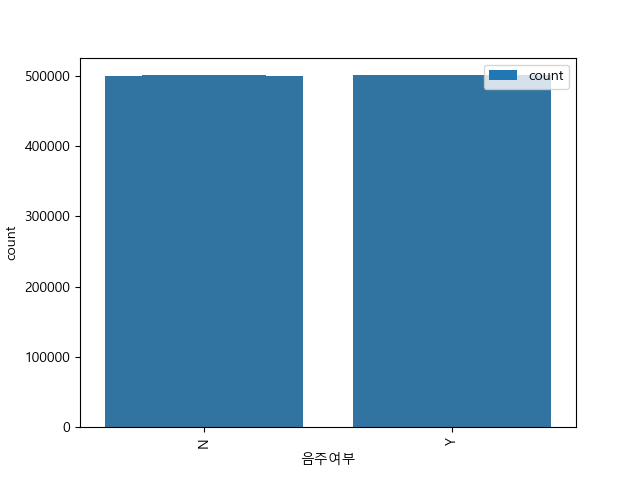
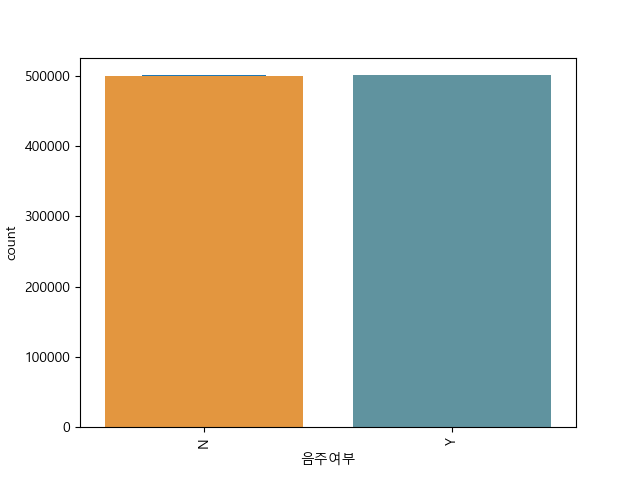
2024-12-07

diff --git a/Health-check/Scripts/GJ2017CategoricalDataVisualization(Haven'tFixed).py b/Health-check/Scripts/GJ2017CategoricalDataVisualization(Haven'tFixed).py
@@ -26,7 +26,7 @@ plt.rc("axes", unicode_minus=False)
 
 #Palettes
 SexPalette = ['#99d8ea', '#ffaec9']
-BoolPalette = ['#ff9723', '#5599aa']
+BoolPalette = ['#ff0000', '#0000ff']
 
 plt.rcParams['axes.facecolor'] = 'white'
 plt.rcParams['figure.facecolor'] = 'white'
